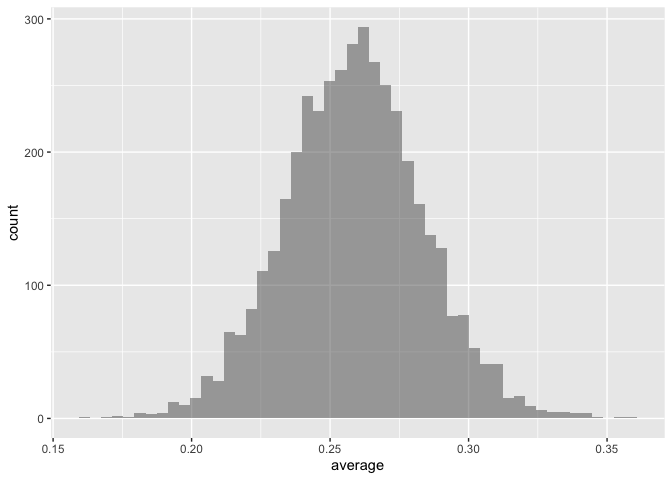
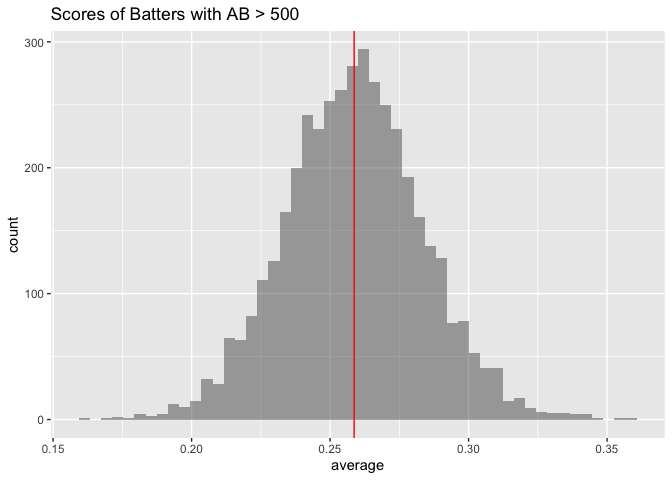
Updated after including Prophet and Causal Impact

diff --git a/Empirical_Bayes.md b/Empirical_Bayes.md
@@ -3,7 +3,8 @@ Empirical Bayes
 Arvind Venkatadri
 25/06/2019
 
-Following David Robinson’s book “Empirical Bayesian Estimation”.
+Following David Robinson’s book “Empirical Bayesian Estimation”. Also
+will peep into **Facebook Prophet** and **Google CausalImpact**.
 
 Empirical Bayes is an approximation to more exact Bayesian methods -
 where a beta distribution is fitted on all available observations and is
@@ -18,28 +19,41 @@ is updated when a new data point arrives. This updated probability
 distribution, `posterior` becomes the prior for the next interation
 using the next data point.
 
-The beta distribution is a good choice for Bayesian priors:  
-\- domain is \[0,1\] - \> The beta distribution is representing a
-probability distribution of probabilities.  
+The **beta distribution** is a good choice for Bayesian priors:  
+\- domain is \[0,1\]. The beta distribution represents a probability
+distribution of probabilities.  
 \- Bayesian update to posteriors is very easy
 
 \[
-p_{beta}(x) = \frac{x^{\alpha-1} \cdot (1-x)^{\beta-1}}{B(\alpha,\beta)}; where\ x [0,1]
-\\
+p_{beta}(x) = \frac{x^{\alpha-1} \cdot (1-x)^{\beta-1}}{B(\alpha,\beta)}
+\\\\
+where\ x [0,1]
+\\\\
 E[X] = \frac{\alpha}{\alpha + \beta}
 \]
 
 ``` r
-beta <- function(alpha, beta) {
-  data = tibble(x = seq(0, 1, 0.001),
-                y = dbeta(x, shape1 = alpha, shape2 = beta))
-  gf_line(data = data, y ~ x)
+betaplot <- function (alpha, beta) {
+# params <- tribble( ~ alpha, ~ beta,
+#   1, 2,
+#   3, 3,
+#   20, 20,
+#   50, 10)
+curve <- map2(alpha, beta, dbeta, x = seq(0, 1, 0.01))
+curve <- 
+  tibble(x = 
+      seq(0, 1, 0.01),
+    beta_density = curve[[1]])
 }
-p1 <- beta(1,2)
-p2 <- beta(3,3)
-p3 <- beta(20,20)
-p4 <- beta(50,10)
-p1+p2+p3+p4
+
+gf_line(beta_density ~ x, data = betaplot(1,2), color = "green",title = "Beta Distribution Curves",
+  xlab = "Batting Average",
+  ylab = "Density of Beta") %>%
+  gf_line(beta_density ~ x, data = betaplot(3,3), color = "red") %>%
+  gf_line(beta_density ~ x, data = betaplot(20,20), color = "blue") %>%
+  gf_line(beta_density ~ x, data = betaplot(50,10), color = "salmon") %>% 
+  # Adding Text Labels
+  gf_label(2~0.05, label = "alpha = 1, beta =2") # Needs more work
 ```
 
 ![](Empirical_Bayes_files/figure-gfm/Plotting%20the%20beta-1.png)<!-- -->
@@ -60,17 +74,20 @@ Batting Average = H/AB
 > is considered an excellent one.
 
 We have `prior expectations` of players and do not rely on the first few
-At Bats to foretell what average a player may attain.
+“At Bats” to foretell what average a player may attain.
 
-The number of hits a player gets out of his at-bats is a `binomial`
+The number of hits a player gets out of his “at bats” is a `binomial`
 distribution, which models successes out of a total.
 
 ``` r
 # Preparing `Batting Average` data frame
 
-career <- Batting %>% 
+career <- 
+  Batting %>% 
   filter(AB > 0) %>%   # At least one `at bat`
-  anti_join(Pitching, by = "playerID") %>%  # leave out the pitchers because they usually are poor batters. No `all-rounders` in baseball! Ha!
+  anti_join(Pitching, by = "playerID") %>%  
+# leave out the pitchers because they usually are poor batters. 
+# No `all-rounders` in baseball! Ha!
   group_by(playerID) %>% 
   summarise(H = sum(H), AB = sum(AB)) %>% 
   mutate(average = H/AB)
@@ -79,30 +96,33 @@ career <- Batting %>%
 # Add Player names please
 career <- Master %>% 
   as_tibble() %>% 
-  select(playerID, nameFirst, nameLast) %>% 
-  unite(name, nameFirst, nameLast) %>% 
+  dplyr::select(playerID, nameFirst, nameLast) %>% 
+  unite(name, nameFirst, nameLast, sep = " ") %>% 
   inner_join(career, by = "playerID") %>% 
-  select(-playerID)
+  dplyr::select(-playerID)
 career
 ```
 
     ## # A tibble: 9,670 x 4
     ##    name                  H    AB average
     ##    <chr>             <int> <int>   <dbl>
-    ##  1 Hank_Aaron         3771 12364  0.305 
-    ##  2 Tommie_Aaron        216   944  0.229 
-    ##  3 Andy_Abad             2    21  0.0952
-    ##  4 John_Abadie          11    49  0.224 
-    ##  5 Ed_Abbaticchio      772  3044  0.254 
-    ##  6 Fred_Abbott         107   513  0.209 
-    ##  7 Jeff_Abbott         157   596  0.263 
-    ##  8 Kurt_Abbott         523  2044  0.256 
-    ##  9 Ody_Abbott           13    70  0.186 
-    ## 10 Frank_Abercrombie     0     4  0     
+    ##  1 Hank Aaron         3771 12364  0.305 
+    ##  2 Tommie Aaron        216   944  0.229 
+    ##  3 Andy Abad             2    21  0.0952
+    ##  4 John Abadie          11    49  0.224 
+    ##  5 Ed Abbaticchio      772  3044  0.254 
+    ##  6 Fred Abbott         107   513  0.209 
+    ##  7 Jeff Abbott         157   596  0.263 
+    ##  8 Kurt Abbott         523  2044  0.256 
+    ##  9 Ody Abbott           13    70  0.186 
+    ## 10 Frank Abercrombie     0     4  0     
     ## # … with 9,660 more rows
 
 ``` r
-career %>% filter(AB >= 500) %>% gf_histogram(~average,data = .,bins = 50)
+career %>% 
+  filter(AB >= 500) %>% 
+  gf_histogram(~average,data = .,bins = 50, title = "Scores of Batters with AB > 500") %>% 
+  gf_vline(xintercept = ~mean(average), color = "red")
 ```
 
 ![](Empirical_Bayes_files/figure-gfm/Estimation%20of%20Priors%20-1-1.png)<!-- -->
@@ -115,39 +135,43 @@ career %>% filter(AB >= 500) %>% gf_histogram(~average,data = .,bins = 50)
 
 > X ∼ Beta(α0,β0)
 
-> We just need to pick α0 and β0, which we call “hyper-parameters” of
-> our model.We can fit these using **maximum likelihood**: to see what
-> parameters would maximize the probability of generating the distribu-
-> tion we see. There are many functions in R for fitting a probability
-> distribution to data (`optim`, `mle`, `bbmle`, etc). You don’t even
-> have to use maximum likelihood: you could use the mean and variance,
-> called the [“method of
+> We just need to pick α0 and β0, which we call “**hyper-parameters**”
+> of our model.We can fit these using **maximum likelihood** : to see
+> what parameters would maximize the probability of generating the
+> distribu- tion we see.
+
+> There are many functions in R for fitting a probability distribution
+> to data (`optim`, `mle`, `bbmle`, etc). You don’t even have to use
+> maximum likelihood: you could use the mean and variance, called the
+> [“method of
 > moments”](https://stats.stackexchange.com/questions/12232/calculating-the-parameters-of-a-beta-distribution-using-the-mean-and-variance).
 > We’ll choose to use the `mle` function, and to use dbetabinom.ab.
 
 ``` r
 #library(stats4)
-career_filtered <- career %>% filter(AB>500)
+career_filtered <- 
+  career %>% 
+  filter(AB > 500)
 career_filtered
 ```
 
     ## # A tibble: 4,209 x 4
     ##    name                H    AB average
     ##    <chr>           <int> <int>   <dbl>
-    ##  1 Hank_Aaron       3771 12364   0.305
-    ##  2 Tommie_Aaron      216   944   0.229
-    ##  3 Ed_Abbaticchio    772  3044   0.254
-    ##  4 Fred_Abbott       107   513   0.209
-    ##  5 Jeff_Abbott       157   596   0.263
-    ##  6 Kurt_Abbott       523  2044   0.256
-    ##  7 Brent_Abernathy   212   868   0.244
-    ##  8 Shawn_Abner       191   840   0.227
-    ##  9 Cal_Abrams        433  1611   0.269
-    ## 10 Bobby_Abreu      2470  8480   0.291
+    ##  1 Hank Aaron       3771 12364   0.305
+    ##  2 Tommie Aaron      216   944   0.229
+    ##  3 Ed Abbaticchio    772  3044   0.254
+    ##  4 Fred Abbott       107   513   0.209
+    ##  5 Jeff Abbott       157   596   0.263
+    ##  6 Kurt Abbott       523  2044   0.256
+    ##  7 Brent Abernathy   212   868   0.244
+    ##  8 Shawn Abner       191   840   0.227
+    ##  9 Cal Abrams        433  1611   0.269
+    ## 10 Bobby Abreu      2470  8480   0.291
     ## # … with 4,199 more rows
 
 ``` r
-# log-likelihod function
+# log-likelihood function
 ll <- function(alpha, beta) {
   x <- career_filtered$H
   total <- career_filtered$AB
@@ -185,7 +209,8 @@ params
 
 ``` r
 # Checking which estimate is better
-career_filtered %>% gf_density(~average, data = .) %>% 
+career_filtered %>% 
+  gf_density(~average, data = .) %>% 
   gf_dist(dist = "beta", kind = "density", params = list(ab[1], ab[2]), color = "red") %>% 
   gf_dist(dist = "beta", kind = "density", params = list(params$alpha, params$beta), color = "blue")
 ```
@@ -222,12 +247,20 @@ ks.test(career_filtered$average, "pbeta",params$alpha,params$beta)
     ## alternative hypothesis: two-sided
 
 ``` r
-## Not sure how to interpret this test; the lower `p-value` for the `mle` results seems to indicate that those parameters are better. 
+## Not sure how to interpret this test; 
+## the lower `p-value` for the `mle` results seems to indicate that those parameters are better. 
 ```
 
 To follow the book: we continue with the `mle` estimates of the
-parameters. Hence the prior distrinution of batting averages is a `beta`
-distribution with \(\alpha_0\) = 102.0421 and \(\beta_0\) = 289.7962.
+parameters. Hence the prior distribution of batting averages is a `beta`
+distribution with \(\alpha_0\) = 102.0421 and \(\beta_0\) =
+289.7962.
+
+``` r
+gf_line(beta_density ~ x, data = betaplot(ab[1], ab[2]), color = "red", title = "Prior Probability Distribution", subtitle = "Beta(81,219)")
+```
+
+![](Empirical_Bayes_files/figure-gfm/Plotting%20the%20Prior-1.png)<!-- -->
 
 ## Updating using Bayesian estimation
 
@@ -235,20 +268,127 @@ Updating the bayesian priors to posteriors is easy when the priors are
 beta disctributes, as stated earlier.
 
 The math for proving this is a bit involved (it’s shown
-[here](https://en.wikipedia.org/wiki/Conjugate_prior#Example_)), the
+[here](https://en.wikipedia.org/wiki/Conjugate_prior#Example_), the
 result is very simple. The new beta distribution will be:
 
-\[ Beta(α0 + hits, β0 + misses) \] where α0 and β0 are the parameters we
-started with- that is, 81 and 219.
+\[ Beta(α0 + hits, β0 + misses) \]
+
+where α0 and β0 are the parameters we started with- that is, 81 and 219.
 
 If a player has had 300 at-bats and he has hit 100, then the new updated
-beta distribution of his average scrores is The math for proving this is
-a bit involved (it’s shown here), the result is very simple. The new
-beta distribution will be: \[ Beta(α0 + 100, β0 + 200) = Beta(181,419)\]
-where α0 and β0 are the parameters we started with- that is, 81 and 219.
+beta distribution of his average scores is :
+
+\[ Beta(α0 + 100, β0 + 200) = Beta(181,419)\] where α0 and β0 are the
+parameters we started with- that is, 81 and 219.
 
 If we plot this we get
 
 ``` r
-#gf_curve(beta(181,419))
+gf_line(beta_density ~ x, data = betaplot(81,219),color = "red") %>% 
+  gf_line(beta_density ~ x, data = betaplot(181,419), color = "blue")
 ```
+
+![](Empirical_Bayes_files/figure-gfm/updating-1.png)<!-- -->
+
+## Empirical Bayesian Estimation - Complete Flow
+
+> The Beta distribution is a \*\* conjugate prior \*\* of the Binomial
+> distribution: when successes are binomial distributed and priors are
+> beta distributed, it is easy to update.
+
+> empirical Bayes estimation, where a beta distribution fit on all
+> observations is then used to improve each individually.
+
+Step 0: Cleaning the Data
+
+Step 1: Estimating a Prior from **all** available Data \> This comes up
+with α0 = 101.359 and β0 = 287.318.
+
+Step 2: Use that prior for each individual estimate
+
+This is the empirical estimate for each player. We can do this as
+follows:
+
+``` r
+career_eb <- 
+  career %>% 
+  mutate(eb_estimate = (H + alpha0)/ (AB + alpha0 + beta0))
+
+mean(career_eb$average) # Can't make pipe work here!
+```
+
+    ## [1] 0.2248
+
+We can now ask questions of our empirical estimate as follows:
+
+#### Top 5 batters
+
+``` r
+career_eb %>% arrange(desc(eb_estimate)) %>% head(n = 5)
+```
+
+    ## # A tibble: 5 x 5
+    ##   name                     H    AB average eb_estimate
+    ##   <chr>                <int> <int>   <dbl>       <dbl>
+    ## 1 Rogers Hornsby        2930  8173   0.358       0.354
+    ## 2 Shoeless Joe Jackson  1772  4981   0.356       0.349
+    ## 3 Ed Delahanty          2597  7510   0.346       0.342
+    ## 4 Billy Hamilton        2164  6283   0.344       0.339
+    ## 5 Willie Keeler         2932  8591   0.341       0.338
+
+#### Poorest 5 batters
+
+``` r
+career_eb %>% arrange(eb_estimate) %>% head(n = 5)
+```
+
+    ## # A tibble: 5 x 5
+    ##   name                H    AB average eb_estimate
+    ##   <chr>           <int> <int>   <dbl>       <dbl>
+    ## 1 Bill Bergen       516  3028   0.170       0.181
+    ## 2 Ray Oyler         221  1265   0.175       0.195
+    ## 3 Henry Easterday   203  1129   0.180       0.201
+    ## 4 John Vukovich      90   559   0.161       0.202
+    ## 5 George Baker       74   474   0.156       0.203
+
+We can plot a scatter plot of all empirical Bayesian estimates of
+Batting Averages to see how they have been
+affected:
+
+``` r
+gf_abline(intercept = ~0, slope = ~1, color = "red",data = career_eb) %>% 
+  gf_hline(yintercept = ~alpha0/(alpha0+beta0), linetype = "dashed", color = "red",data = career_eb) %>% 
+  gf_point(eb_estimate ~ average, fill = ~ AB,color = ~ AB, data = career_eb,, title = "Raw Batting Average vs Empirical Bayesian Estimates")
+```
+
+![](Empirical_Bayes_files/figure-gfm/All%20estimates-1.png)<!-- -->
+
+``` r
+# Some explorations with this plot
+# Batters with AB > 500
+gf_abline(intercept = ~0, slope = ~1, color = "red",data = career_eb) %>% 
+  gf_hline(yintercept = ~alpha0/(alpha0+beta0), linetype = "dashed", color = "red",data = career_eb) %>% 
+  gf_point(eb_estimate ~ average, fill = ~ AB,color = ~ AB, data = filter(career_eb, AB>=500),title = "Raw Batting Average vs Empirical Bayesian Estimates, AB > 500",subtitle = "AB >500 implies Raw estimate ~ Bayesian Estimate")
+```
+
+![](Empirical_Bayes_files/figure-gfm/All%20estimates-2.png)<!-- -->
+
+``` r
+# Some explorations with this plot
+# Batters with AB < 500
+gf_abline(intercept = ~0, slope = ~1, color = "red",data = career_eb) %>% 
+  gf_hline(yintercept = ~alpha0/(alpha0+beta0), linetype = "dashed", color = "red",data = career_eb) %>% 
+  gf_point(eb_estimate ~ average, fill = ~ AB,color = ~ AB, data = filter(career_eb, AB < 200),title = "Raw Batting Average vs Empirical Bayesian Estimates, AB < 200",subtitle = "AB < 200 implies Raw estimate < > Bayesian Estimate")
+```
+
+![](Empirical_Bayes_files/figure-gfm/All%20estimates-3.png)<!-- -->
+
+It is seen that:
+
+  - Most players with many AB are clustered along the `x = y` line. With
+    such individuals, Bayesian updating does not do much because the
+    evidence is strong and there is no change.
+  - Those who have low AB values are pulled to the average ( the flat
+    line), from **both** directions.
+
+### Credible Intervals
